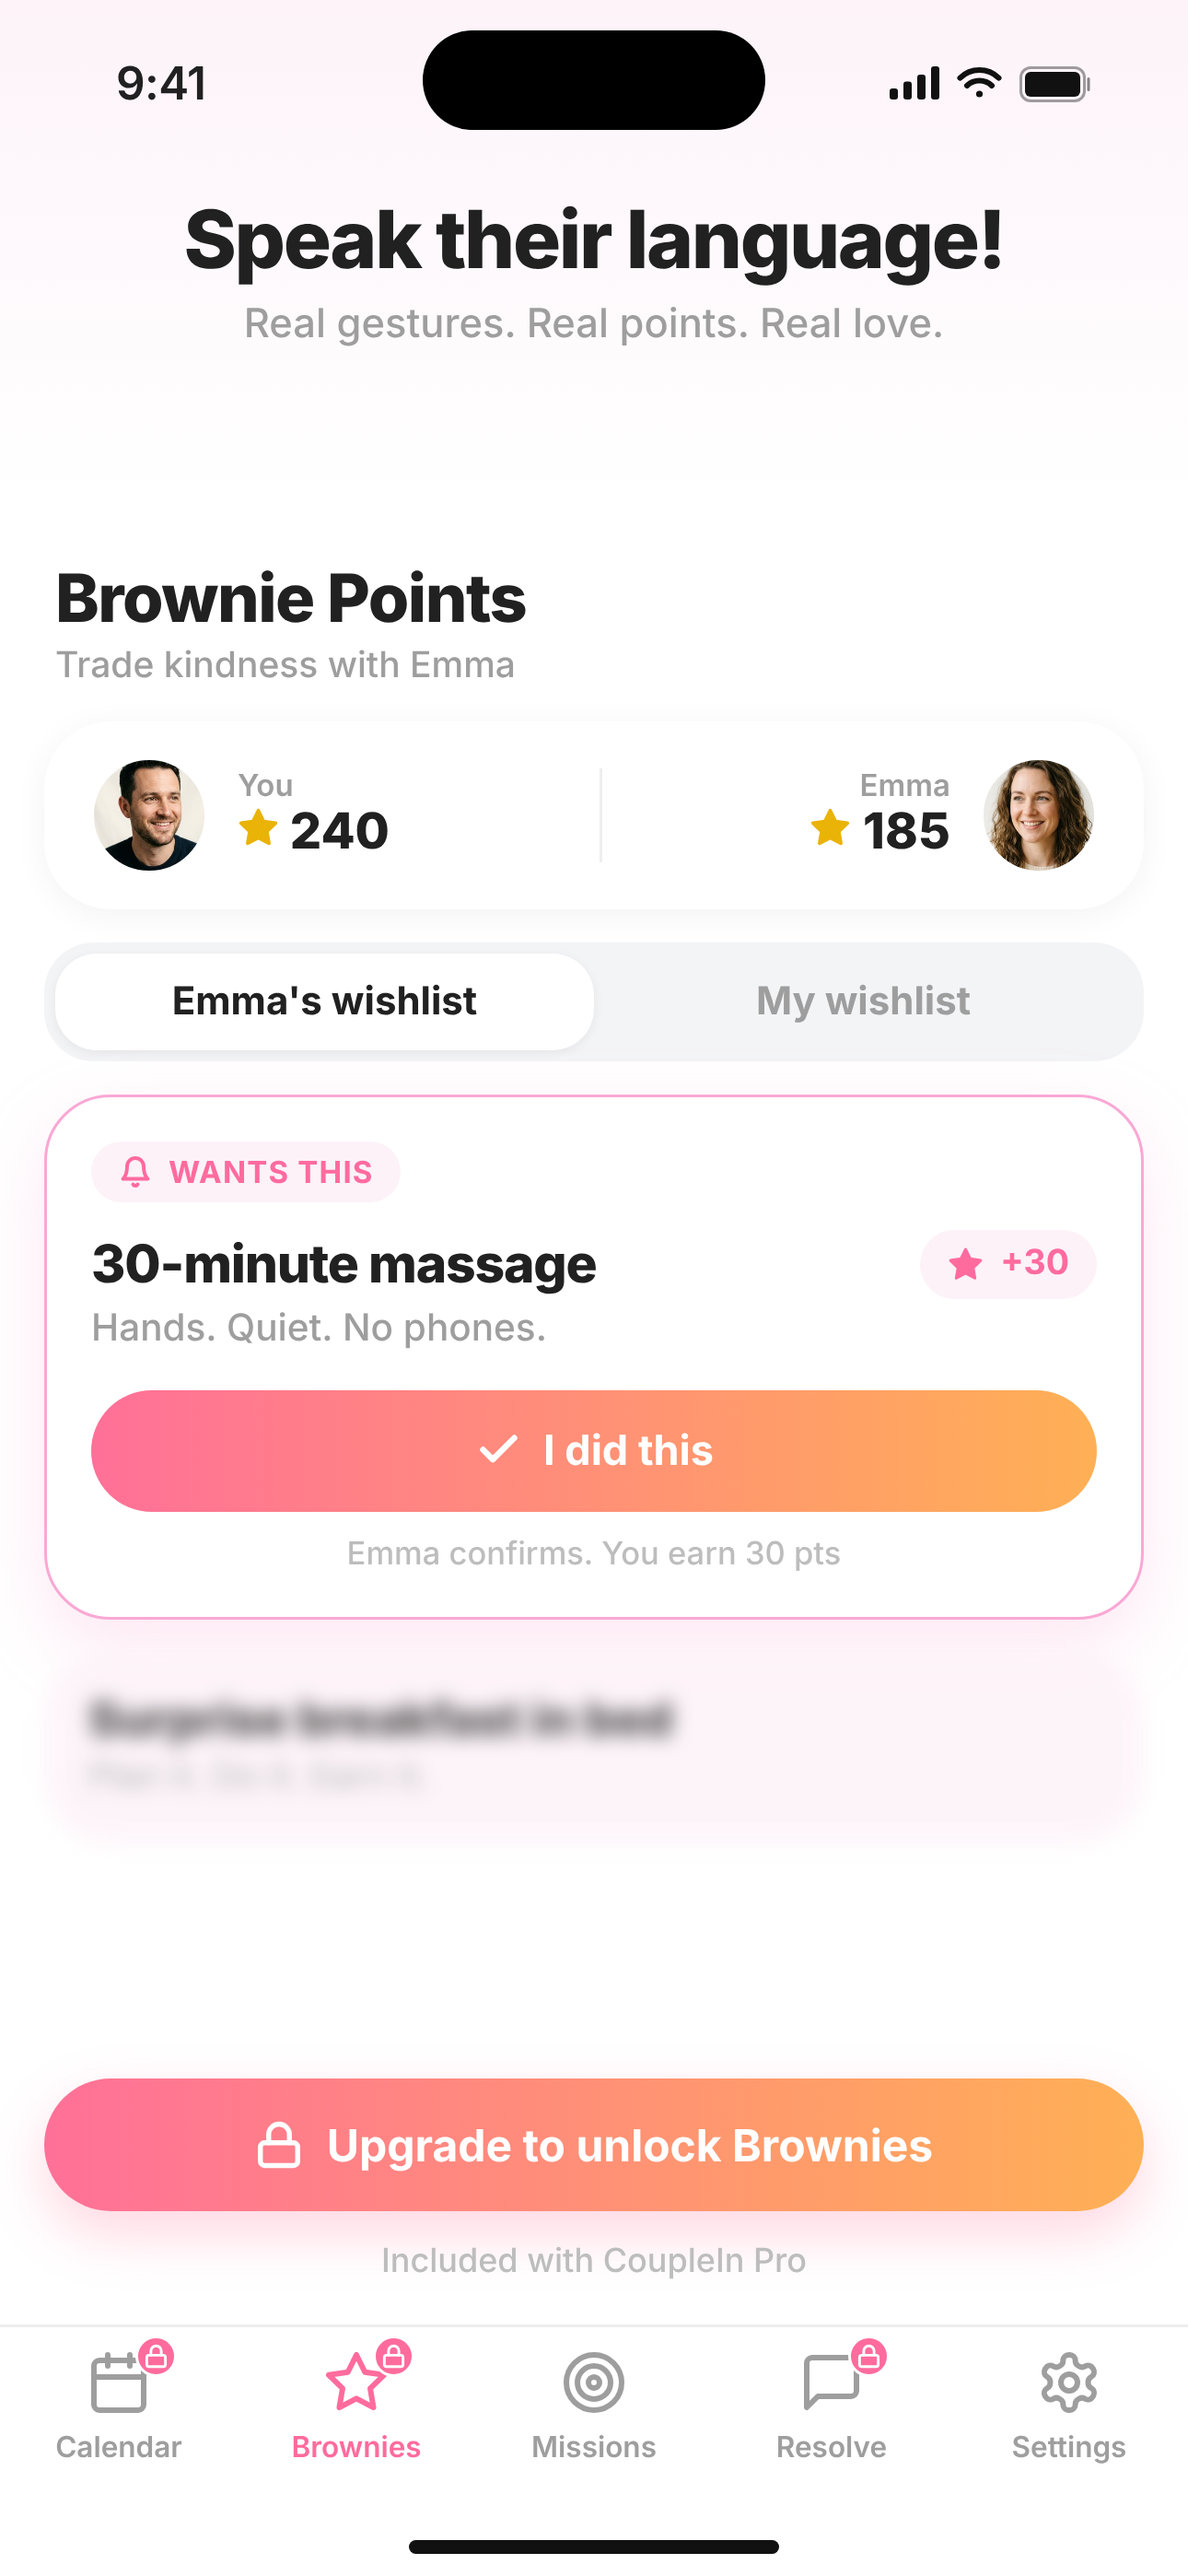
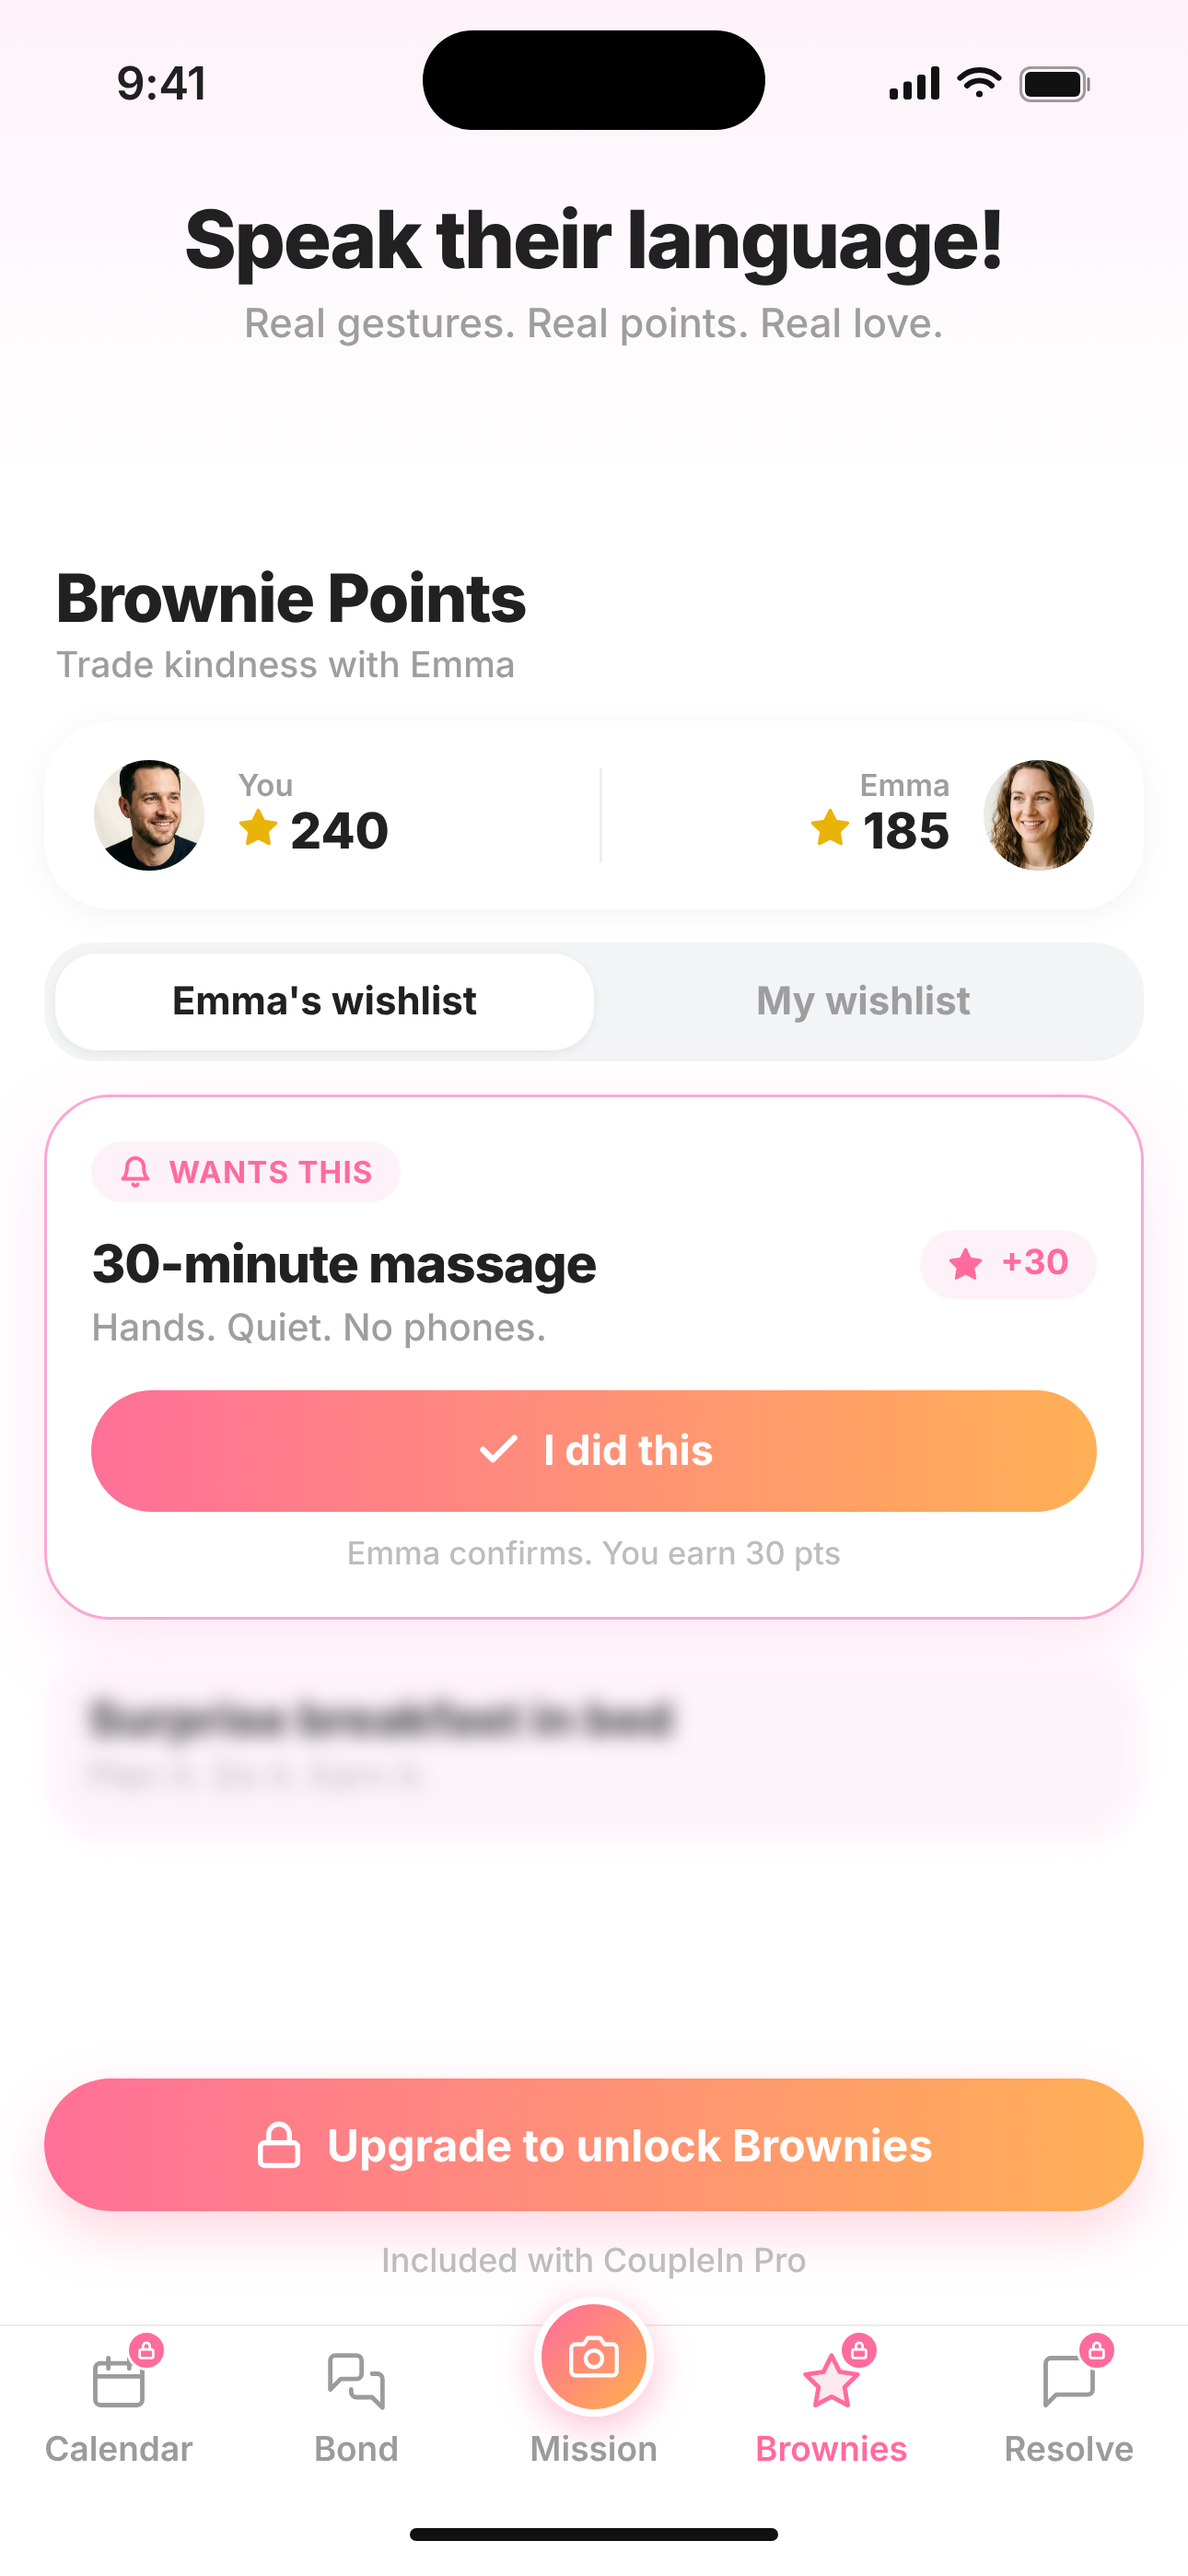
New tab bar footer: Calendar, Bond, Mission (centre), Brownies, Resolve
Repaint tab bar in all screen images and update docs.

Claude-Session: https://claude.ai/code/session_01Nthg51csCFg7k8uzcTgANJ

diff --git a/final-plan/Final-Plan-Developer.md b/final-plan/Final-Plan-Developer.md
@@ -27,14 +27,15 @@ Terms: **Relationship Day Count** is days since the start date entered by the fi
 
 ## 2. Navigation, Free vs Pro, pricing and placeholders
 
-Mission replaces Mood Sync as the centre of the app and is the only free feature, with no limit on daily use (the habit is the product). The only thing gated is viewing old photos: Free can open the last 14 days; anything older is Pro. The app opens on the camera, or on today's card if today's selfie is already sent.
+Mission replaces Mood Sync as the centre of the app and is a free feature (with Bond, below), with no limit on daily use (the habit is the product). The only thing gated is viewing old photos: Free can open the last 14 days; anything older is Pro. The app opens on the camera, or on today's card if today's selfie is already sent.
 
-**Tab bar:** Calendar, Brownies, Missions, Resolve, Settings. Only Missions is free. **Assumption:** the Mission (today's pose, camera, reveal) lives in the Missions tab. Confirm before building.
+**Tab bar (left to right):** Calendar (Pro), Bond (free), Mission (free, centre, raised camera button), Brownies (Pro), Resolve (Pro). Settings moves out of the tab bar to a gear icon at the top right of every screen. Pro tabs keep the pink lock badge. The Mission (today's pose, camera, reveal) lives in the centre Mission button. **Bond** is a free page: a daily question, an "Ask another" tab with category chips (Fun, Go deeper, Would you rather, Our future, Memories), and a reveal where both partners' typed answers (200 characters) show together once both have answered. No chat, no history in v1. Question bank spec: see the "CoupleIn Bond: Question Bank" doc.
 
 | Area | Free | Pro |
 | --- | --- | --- |
 | Mission: daily pose, send, reveal, share card | Yes | Yes |
 | Past cards | Last 14 days | All, from the phone's storage |
+| Bond: daily question, Ask another, reveal | Yes | Yes |
 | Calendar, Brownies, Resolve | Locked placeholder | Yes |
 | Watermark on cards and Week 1 video | Yes | Removed |
 

diff --git a/final-plan/Final-Plan-Founder.md b/final-plan/Final-Plan-Founder.md
@@ -76,7 +76,7 @@ Two growth loops: your absurd videos bring in the first couples, then every shar
 
 **Open questions (decide with the developer):**
 
-- Does the Mission live in the Missions tab? (assumed yes, it is the only free tab)
+- Tab bar is now Calendar (Pro), Bond (free), Mission (free, centre), Brownies (Pro), Resolve (Pro); Settings moves to a top-right gear. Two free features: Mission and Bond.
 - Is Pro per person or per couple?
 - Hard gate: first selfie only, or every day?
 - What do points buy, and is there a daily cap? (25 points per photo for now)

diff --git a/final-plan/README.md b/final-plan/README.md
@@ -2,6 +2,6 @@
 
 - `Final-Plan-Developer.md` : spec for the developer (no marketing).
 - `Final-Plan-Founder.md` : founder's plan (decisions, marketing, economics, risks, to-do).
-- `images/` : locked-tab placeholders (women/men) and reference screens.
+- `images/` : locked-tab placeholders (women/men) and reference screens, all showing the current tab bar (Calendar, Bond, Mission centre, Brownies, Resolve).
 
 These supersede all earlier files in this repo.
